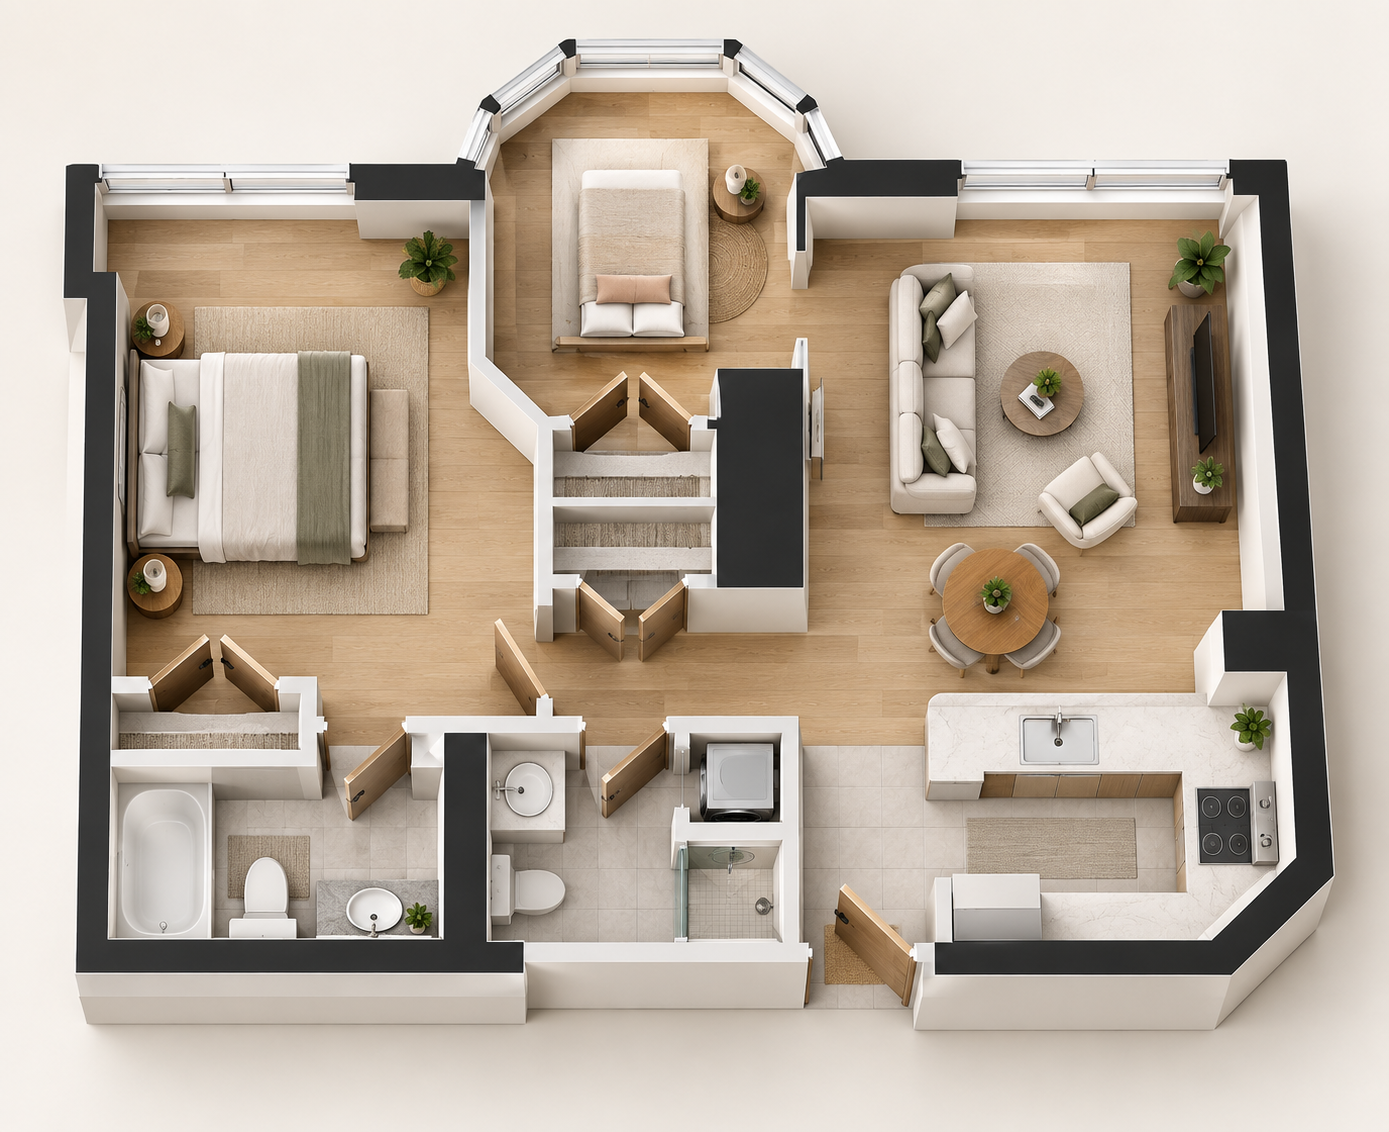
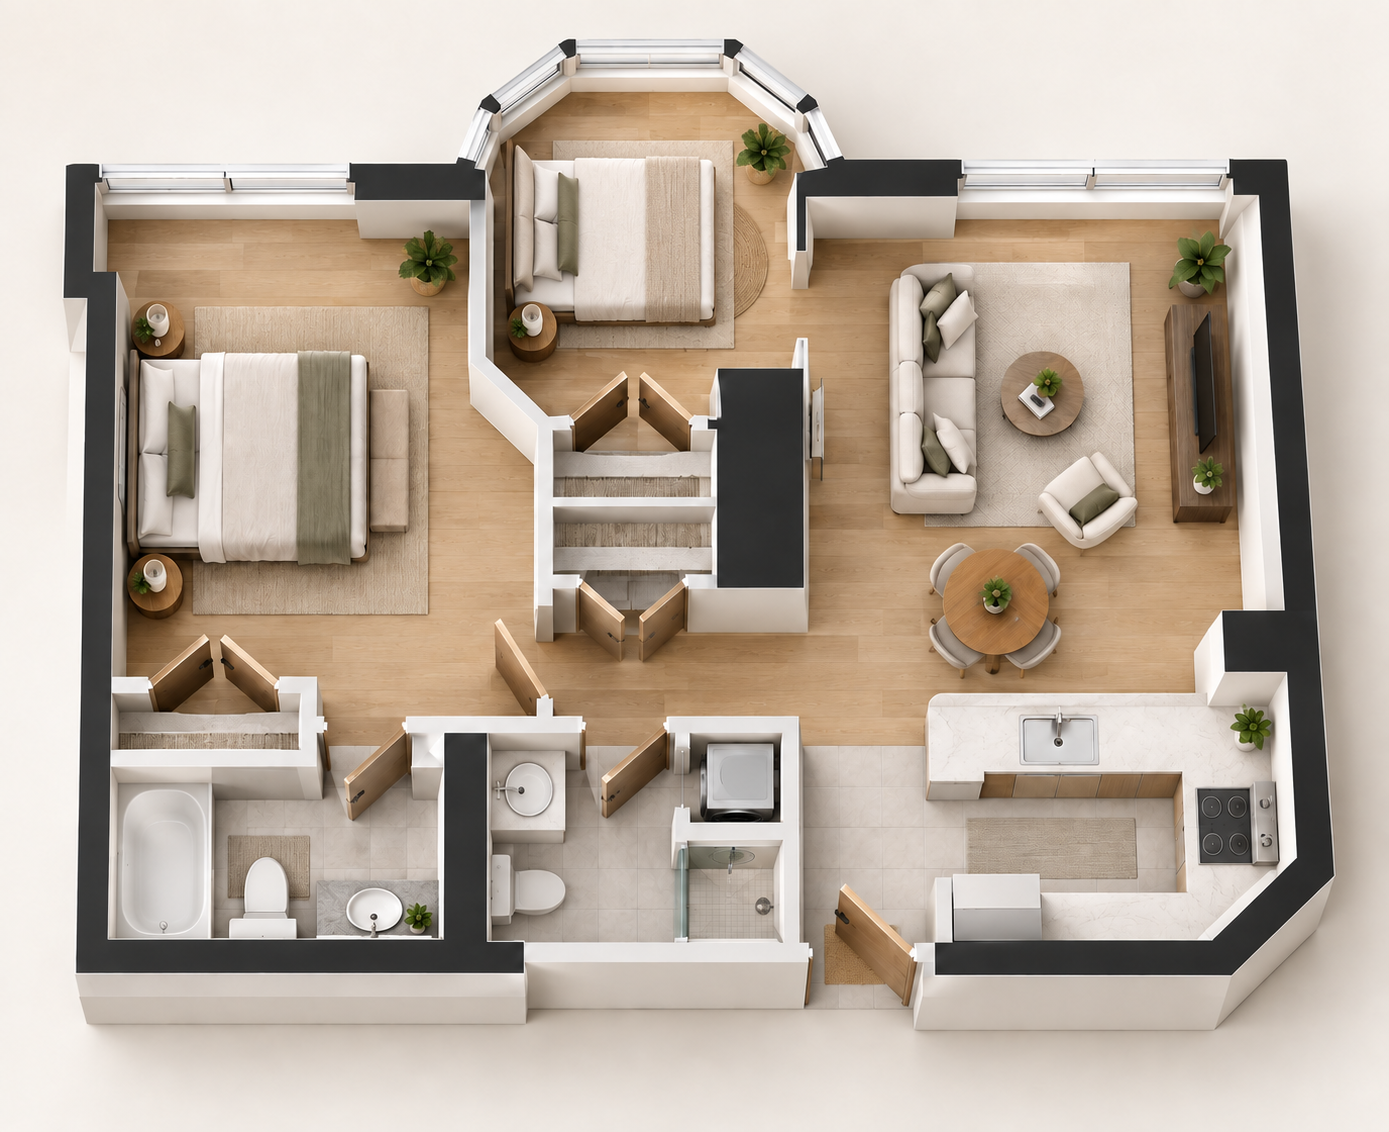
Correct second bedroom bed orientation in illustrated floorplan

Changed region(s): [[0.3405, 0.0618, 0.5882, 0.3401], [0.8978, 0.742, 0.9287, 0.773], [0.743, 0.3401, 0.7739, 0.371]]

diff --git a/index.html b/index.html
@@ -25,7 +25,7 @@
         <div class="section-heading"><div><p class="eyebrow">How it all fits</p><h2 id="gallery-title">Step inside. <em>Look around.</em></h2></div><p class="muted">A real home, in daylight and after dark.</p></div>
         <div class="floorplan-tour">
           <div class="plan-frame">
-            <img src="site/assets/2011_8Park_floorplan_reimagined.png" alt="Illustrated furnished floor plan of Suite 2011: primary bedroom left, second bedroom at the bay window, living room right, kitchen and two bathrooms below" width="1389" height="1132" loading="lazy">
+            <img src="site/assets/2011_8Park_floorplan_reimagined.png?v=horizontal-bed-2" alt="Illustrated furnished floor plan of Suite 2011: primary bedroom left, second bedroom at the bay window with its bed oriented left to right, living room right, kitchen and two bathrooms below" width="1389" height="1132" loading="lazy">
             <a class="view-marker" style="left:78%;top:25%;--direction:180deg" href="site/assets/kitchen-daylight.jpg" data-view="7" aria-label="View 1: kitchen in daylight"><span>1</span></a>
             <a class="view-marker" style="left:81%;top:56%;--direction:0deg" href="site/assets/living-daylight.jpg" data-view="6" aria-label="View 2: living room in daylight"><span>2</span></a>
             <a class="view-marker" style="left:62%;top:57%;--direction:45deg" href="site/assets/kitchen-to-living.jpg" data-view="2" aria-label="View 3: living room and kitchen in daylight"><span>3</span></a>

diff --git a/site/index.html b/site/index.html
@@ -25,7 +25,7 @@
         <div class="section-heading"><div><p class="eyebrow">How it all fits</p><h2 id="gallery-title">Step inside. <em>Look around.</em></h2></div><p class="muted">A real home, in daylight and after dark.</p></div>
         <div class="floorplan-tour">
           <div class="plan-frame">
-            <img src="assets/2011_8Park_floorplan_reimagined.png" alt="Illustrated furnished floor plan of Suite 2011: primary bedroom left, second bedroom at the bay window, living room right, kitchen and two bathrooms below" width="1389" height="1132" loading="lazy">
+            <img src="assets/2011_8Park_floorplan_reimagined.png?v=horizontal-bed-2" alt="Illustrated furnished floor plan of Suite 2011: primary bedroom left, second bedroom at the bay window with its bed oriented left to right, living room right, kitchen and two bathrooms below" width="1389" height="1132" loading="lazy">
             <a class="view-marker" style="left:78%;top:25%;--direction:180deg" href="assets/kitchen-daylight.jpg" data-view="7" aria-label="View 1: kitchen in daylight"><span>1</span></a>
             <a class="view-marker" style="left:81%;top:56%;--direction:0deg" href="assets/living-daylight.jpg" data-view="6" aria-label="View 2: living room in daylight"><span>2</span></a>
             <a class="view-marker" style="left:62%;top:57%;--direction:45deg" href="assets/kitchen-to-living.jpg" data-view="2" aria-label="View 3: living room and kitchen in daylight"><span>3</span></a>
